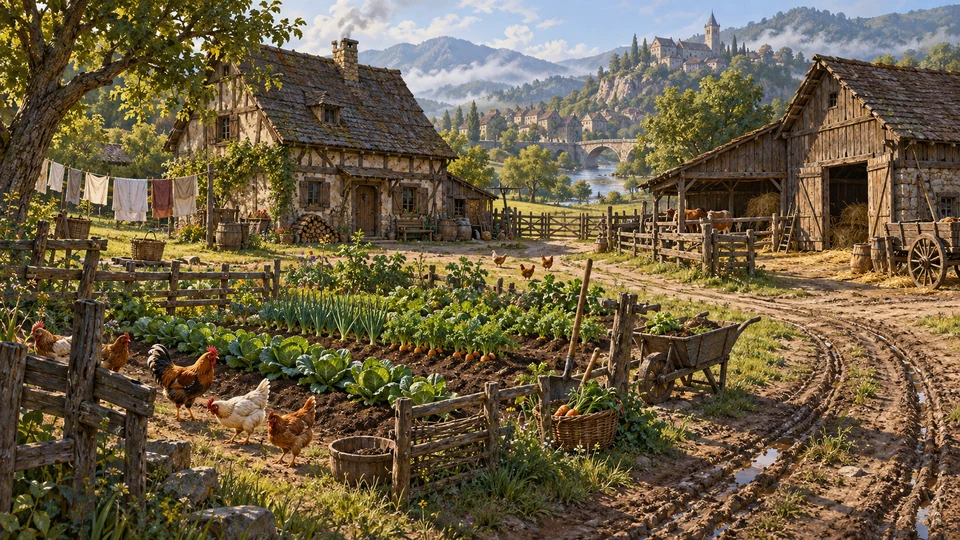
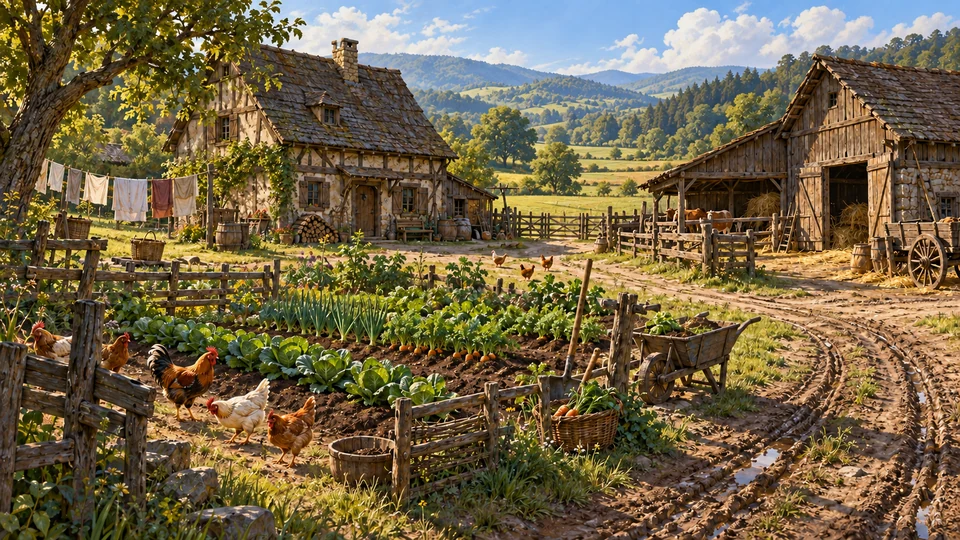
Keep farm isolated in open countryside and record location art prompts

diff --git a/project/rest-and-routes-locations.md b/project/rest-and-routes-locations.md
@@ -1,0 +1,21 @@
+# Rest and Routes locations
+
+Three reusable location templates: `campsite-with-fire`, `alleyway`, `farm`.
+
+Final images: `docs/images/locations/<id>.webp`, opaque 960 × 540 WebP, quality 87. Existing roadside campsite remains a separate template. Card descriptions explain use to the GM; readAloud is one visual sentence; flavour adds two flowing sensory sentences; discovery provides a small find.
+
+## Artwork prompts
+
+Generated with the built-in image generation tool. Shared direction: standalone wide 16:9 painterly fantasy location illustration, grounded medieval environment, muted earthy colours, no text, labels, borders, watermark or prominent characters.
+
+- **Campsite with Fire:** A sparse one-night wilderness camp under dark trees. One modest fire in a rough stone ring, three bedrolls, two travel packs and a small cooking pot. No tents, barrels, chests, furniture or lanterns. Quiet blue night and warm firelight, with plenty of untouched clearing.
+- **Alleyway:** A narrow cobbled medieval alley between timber and stone houses. A sunlit exit, dark doorway, crates, hanging laundry and puddles suggest a shortcut with possible danger, without showing an attacker.
+- **Farm:** A working farm on rural outskirts, with its own farmhouse and barn, vegetable rows, tools, chickens, fences, laundry and fresh wagon tracks. Beyond the farm are only open fields, wooded hills and sky. No background village, bridge, castle, tower or other buildings.
+
+## Hover behaviour
+
+Locations library cards match the NPC Library: lift 3px, subtle shadow, image scale 1.025, with 0.2s card and 0.4s image transitions. Keyboard focus receives the same affordance. Touch devices do not receive hover-only motion. Reduced-motion disables these transforms and transitions. Session and modal image frames are unaffected.
+
+## Validation
+
+Run `tests/rest-and-routes.test.cjs` and `tests/location-detail.test.cjs` with Playwright and `NPC_TEST_CHROME` set to an installed Chromium executable. Check exact WebP dimensions separately with Pillow. Desktop and mobile previews are saved to `project/screenshots/rest-and-routes-*.png`.
